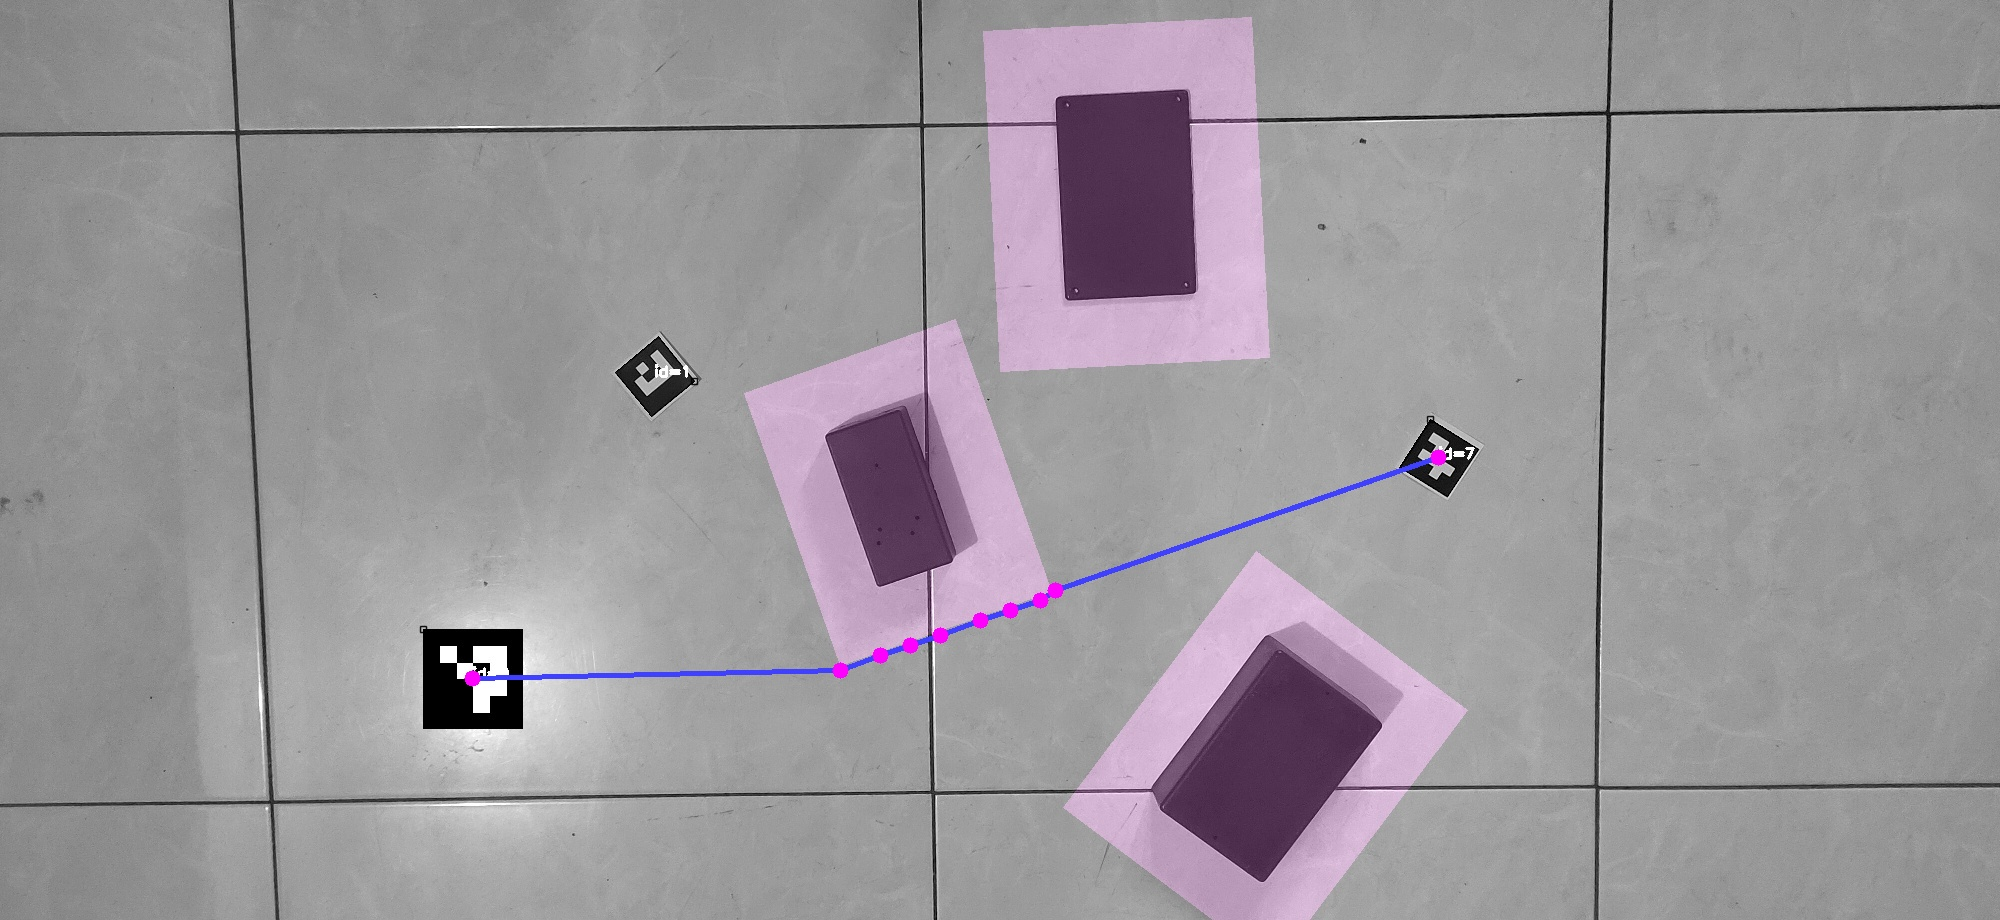
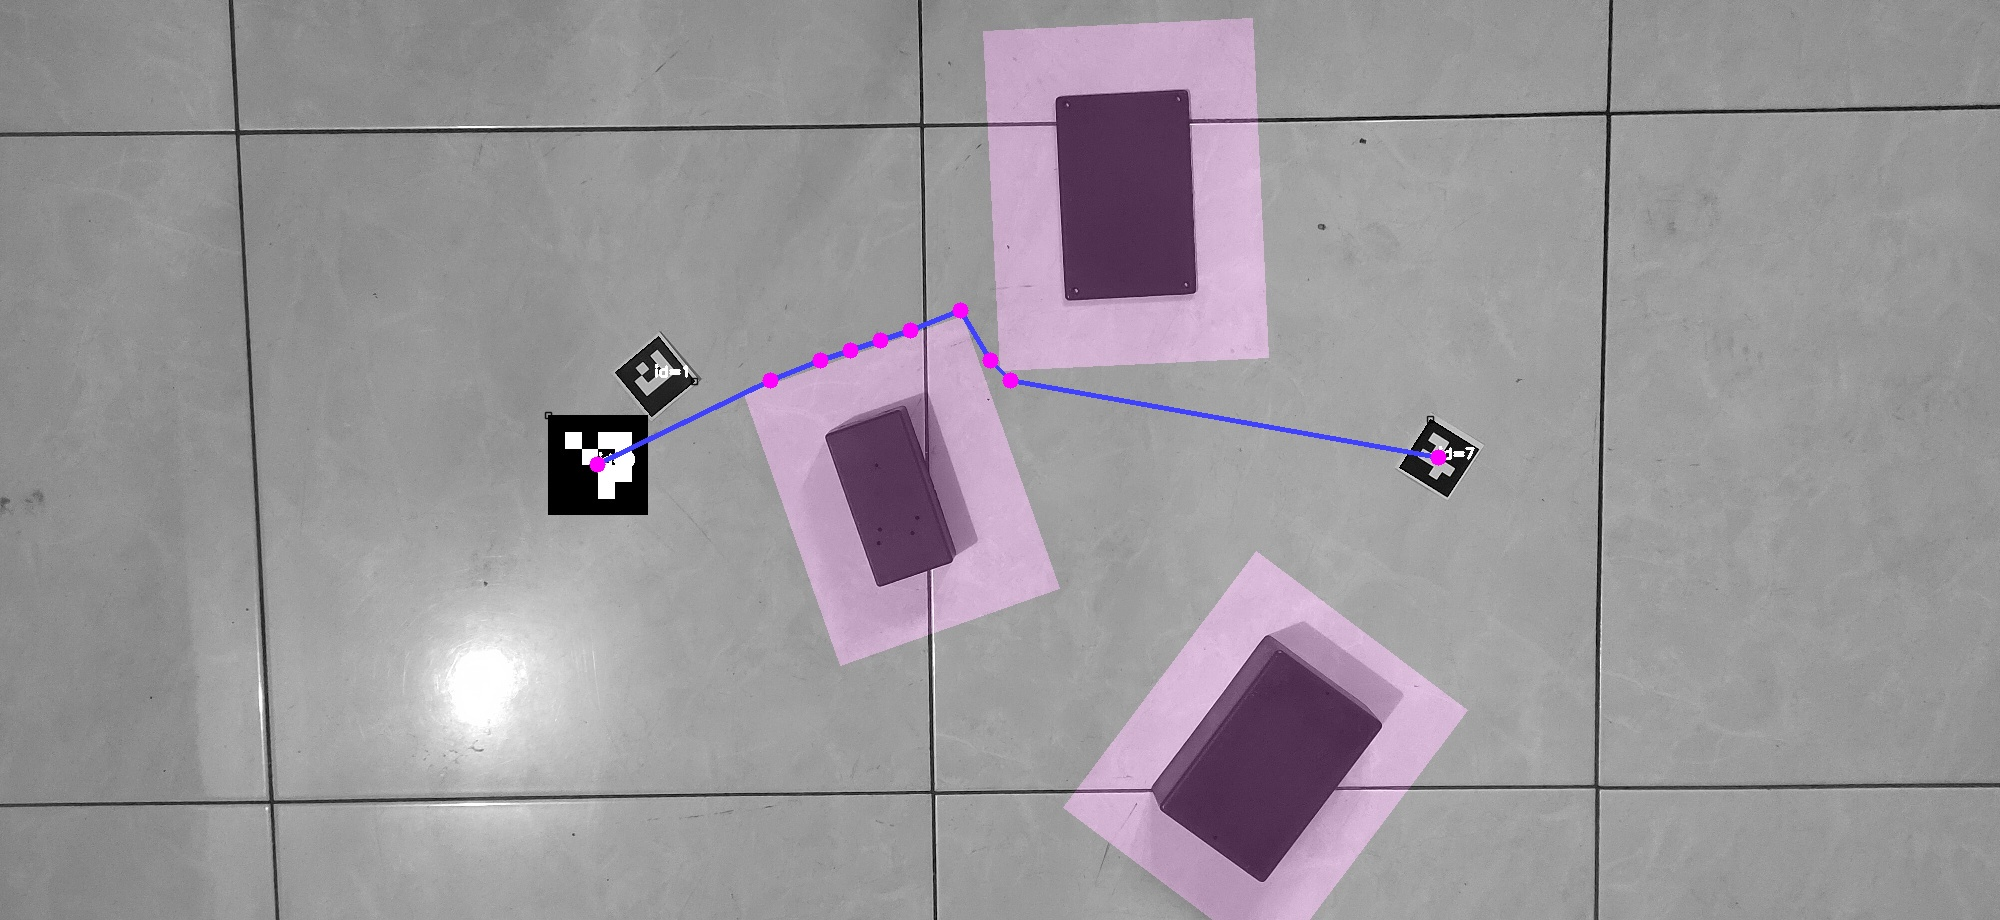
good simulation

diff --git a/Z_Simulasi.py b/Z_Simulasi.py
@@ -17,10 +17,23 @@ robot_original = pygame.transform.scale(robot_original, (100, 100))
 
 # Variabel untuk sudut rotasi
 rotation_angle = 0
+path = None
+pointIdx = 0
+dt = None
 
 # Loop Utama
 running = True
+# Loop Utama
+running = True
+
 while running:
+    # Cari path jika belum ada
+    if not path or path:
+        screenshot = pygame.surfarray.array3d(pygame.display.get_surface())
+        screenshot = np.transpose(screenshot, (1, 0, 2))  # Swap axis width <-> height
+        screenshot = cv2.cvtColor(screenshot, cv2.COLOR_BGR2GRAY)  # Konversi ke grayscale
+        path = getPath(screenshot, 16, 0, 7)
+
     for event in pygame.event.get():
         if event.type == pygame.QUIT:
             running = False
@@ -29,35 +42,47 @@ while running:
             if event.key == pygame.K_ESCAPE:
                 running = False
 
-            # Tekan P untuk simpan screenshot
             if event.key == pygame.K_p:
                 screenshot = pygame.surfarray.array3d(pygame.display.get_surface())
-                screenshot = np.transpose(screenshot, (1, 0, 2))  # Swap axis width <-> height
-                screenshot = cv2.cvtColor(screenshot, cv2.COLOR_RGB2BGR)  # Konversi ke BGR OpenCV
+                screenshot = np.transpose(screenshot, (1, 0, 2))
+                screenshot = cv2.cvtColor(screenshot, cv2.COLOR_RGB2BGR)
                 filename = f"Output/normal.jpg"
                 cv2.imwrite(filename, screenshot)
                 print(f"Gambar disimpan sebagai {filename}")
 
-            # Tombol panah kiri = rotate CCW
             if event.key == pygame.K_LEFT:
-                rotation_angle += 10  # putar 10 derajat CCW
+                rotation_angle += 10
 
-            # Tombol panah kanan = rotate CW
             if event.key == pygame.K_RIGHT:
-                rotation_angle -= 10  # putar 10 derajat CW
+                rotation_angle -= 10
 
     # Dapatkan posisi mouse
     mouse_x, mouse_y = pygame.mouse.get_pos()
 
-    # Rotate gambar berdasarkan sudut saat ini
+    # Rotate gambar robot
     rotated_robot = pygame.transform.rotate(robot_original, rotation_angle)
     robot_rect = rotated_robot.get_rect(center=(mouse_x, mouse_y))
 
-    # Gambar ke layar
+    # Gambar ke window
     window.blit(background, (0, 0))
-    window.blit(rotated_robot, robot_rect.topleft)
 
+    # Gambar path jika ada
+    if path:
+        dt = GetOrientation(screenshot, path[pointIdx], 0, False)
+        if dt:
+            for i in range(len(path)):
+                x, y = path[i]
+                # Gambar titik
+                pygame.draw.circle(window, (255, 0, 255), (y, x), 8)
+                # Gambar garis ke titik berikutnya jika ada
+                if i < len(path) - 1:
+                    next_x, next_y = path[i + 1]
+                    pygame.draw.line(window, (255, 0, 255), (y, x), (next_y, next_x), 3)
+            # pygame.draw.line(window, (255, 0, 255), dt['koordinat'], path[pointIdx], 3)
+
+    window.blit(rotated_robot, robot_rect.topleft)
     pygame.display.flip()
 
 pygame.quit()
 sys.exit()
+

diff --git a/Method/PathPolylineOptimization.py b/Method/PathPolylineOptimization.py
@@ -120,7 +120,7 @@ def prunning(path, map):
     goal = 1
     start_t = start
     goal_t = goal
-    jalur_prunning = [path[start]]
+    path_prunning = [path[start]]
     while True:
         while goal <= len(path)-1:
             if not (lompatanAman(path[start], path[goal], map)):
@@ -128,10 +128,10 @@ def prunning(path, map):
                     goal += 1
                     break
                 elif goal == len(path):
-                    jalur_prunning.append(path[goal])
+                    path_prunning.append(path[goal])
                     break
                 else:
-                    jalur_prunning.append(path[goal-1])
+                    path_prunning.append(path[goal-1])
                     start = goal - 1
                     break
             else:
@@ -140,5 +140,5 @@ def prunning(path, map):
             break
         start_t = start
         goal_t = goal
-    jalur_prunning.append(path[len(path)-1])
-    return jalur_prunning
+    path_prunning.append(path[len(path)-1])
+    return path_prunning

diff --git a/GetPath.py b/GetPath.py
@@ -9,17 +9,16 @@ def getPath(image, scale=20, idStart=1, idGoal=7):
 
     map, pos = Preprocessing(image, posa, scale, corners)
 
-    path, time = jps.method(map, pos['start'], pos['goal'], 2)
-    print(f"Path dihasilkan : {path}")
+    path, time = astar.method(map, pos['start'], pos['goal'], 2)
+
+    if not path:
+        return 0
 
     path = prunning(path, map)
-    print("Path Asli : ", path)
-    print("Path Hasil Prunning : ", path)
 
     path = [(y * scale, x * scale) for y, x in path]
     path[0] = posa['start'][::-1]
     path[-1] = posa['goal'][::-1]
-    print("Path Hasil Scale : ", path)
 
     image = cv2.imread('Output/Overlay.jpg')
 
@@ -30,8 +29,6 @@ def getPath(image, scale=20, idStart=1, idGoal=7):
 
     for (y,x) in path:
         cv2.circle(image, (x,y), 8, (255,0,255), -1)
-
-    cv2.imwrite('Output/Output.jpg', image)
 
     return path
 
